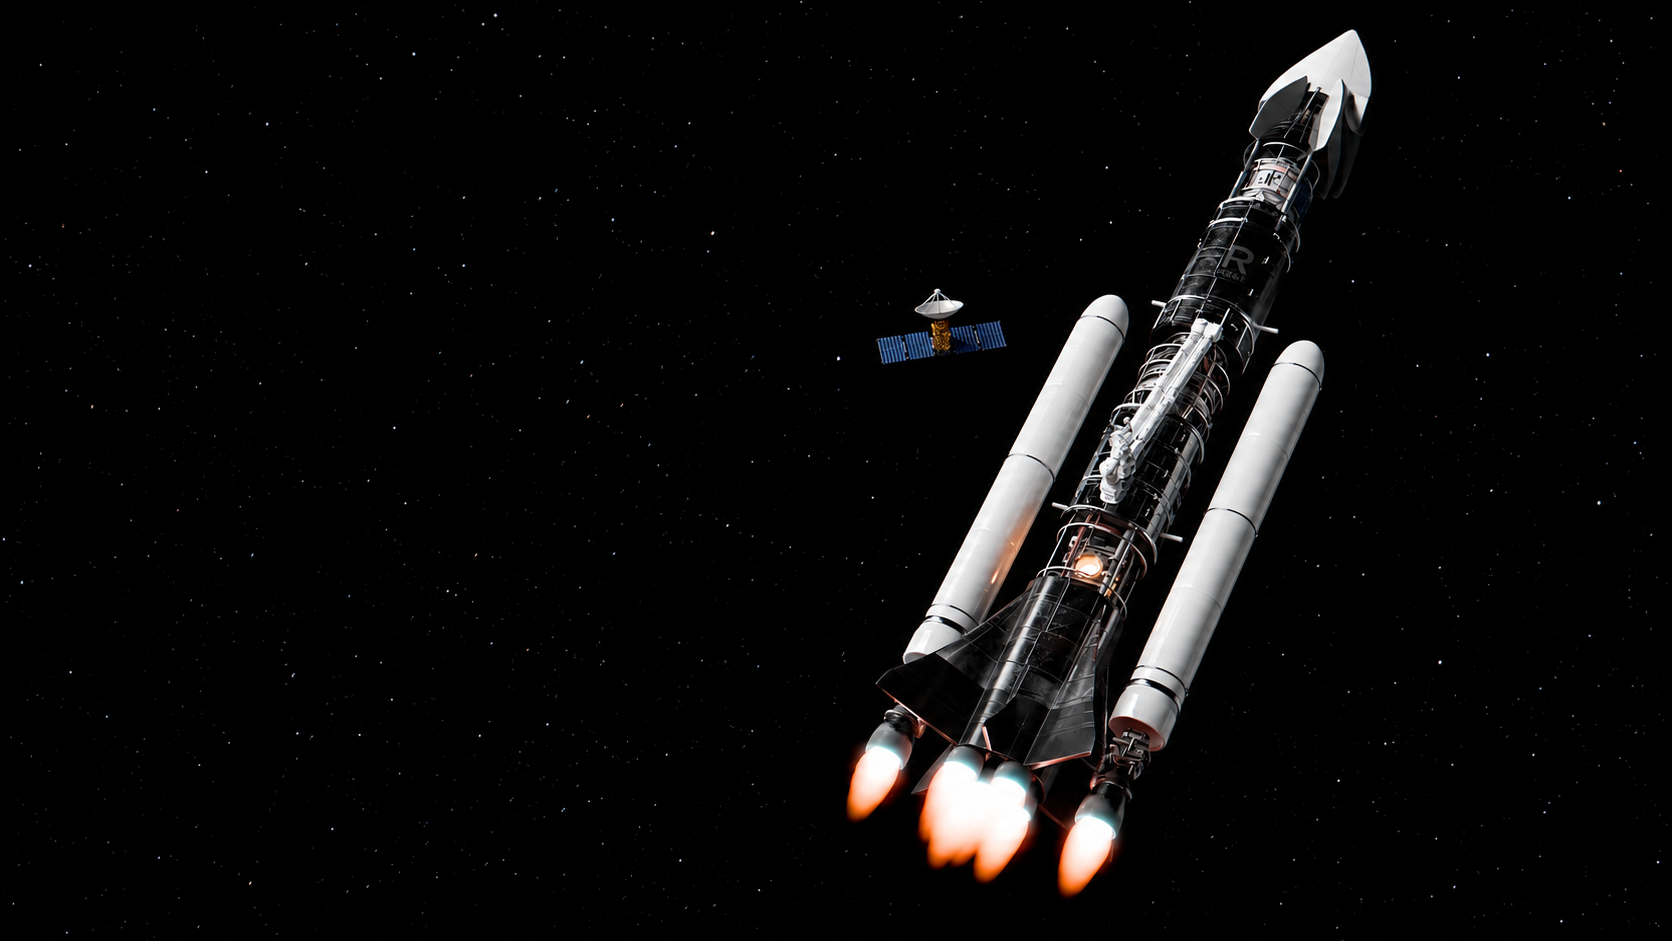
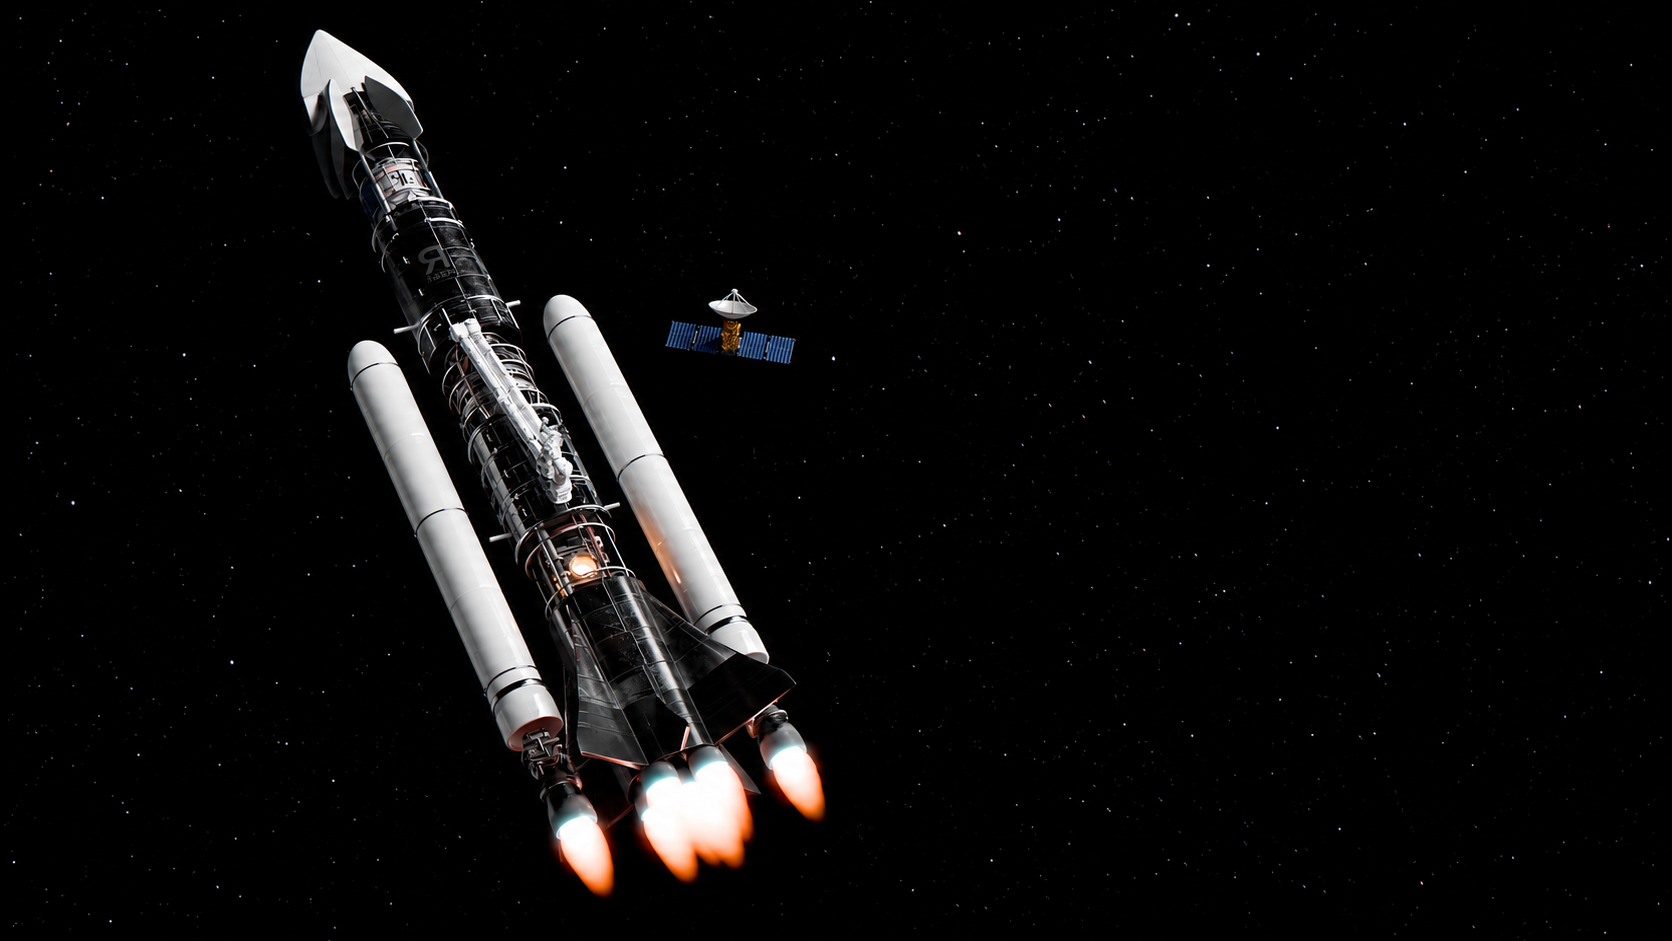
added full ARTWORKS

Changed region(s): [[0.1555, 0.0308, 0.8397, 0.9554]]

diff --git a/js/works-data.js b/js/works-data.js
@@ -50,72 +50,107 @@ const WORKS1 = [
         tag3_nl:  'Stage',
         tag3_en:  'Internship',
     },
-    // ✅ 4-րդ item
     {
         image:        './img/artworks/artwork-4-desktop.jpg',
         image_mobile: './img/artworks/artwork-4-mobile.png',
         video:        './img/artworks/artwork-4-video.mp4',
         date:     "oct '24",
         index:    'INDEX.04',
-        cat_key:  'cat-circus',
-        title_nl: 'Artwork 4',
-        title_en: 'Artwork 4',
-        desc_nl:  'Beschrijving van het vierde artwork.',
-        desc_en:  'Description of the fourth artwork.',
-        tag1_nl:  'Animatie',
-        tag1_en:  'Animation',
-        tag2:     '3D Animation',
+        cat_key:  'cat-amogus',
+        title_nl: 'The Last Imposter',
+        title_en: 'The Last Imposter',
+        desc_nl:  'Een 3D-render die het beroemde schilderij "Het Laatste Avondmaal" van Leonardo da Vinci combineert met het spel Among Us van Innersloth.',
+        desc_en:  'The Last Imposter - A 3D render combining the famous painting "The Last Supper" from Leonardo da Vinci with the game Among Us from Innersloth.',
+        tag1_nl:  '3D Render',
+        tag1_en:  '3D Render',
+        tag2:     'Blender',
         tag3_nl:  'Kunst',
         tag3_en:  'Art',
     },
 ];
 
-
 const WORKS2 = [
     {
-        image:    './img/featured-works/work-3.webp',
+        image:        './img/artworks/artwork-5-desktop.jpg',
+        image_mobile: './img/artworks/artwork-5-mobile.png',
+        video:        './img/artworks/artwork-5-video.mp4',
         date:     "oct '24",
         index:    'INDEX.01',
-        cat_key:  'cat-recovery',
-        title_nl: 'Bosscène',
-        title_en: 'Forest Scene',
-        desc_nl:  'Een persoonlijk omgevingsstuk dat dichte jungleatmosferen en volumetrische belichting verkent.',
-        desc_en:  'A personal environment piece exploring dense jungle atmospheres and volumetric lighting.',
-        tag1_nl:  'Omgeving',
-        tag1_en:  'Environment',
-        tag2:     '3D Render',
-        tag3_nl:  'Sfeervol',
-        tag3_en:  'Atmospheric',
+        cat_key:  'cat-car',
+        title_nl: 'Offroad Voertuig',
+        title_en: 'Offroad Vehicle',
+        desc_nl:  'Een 3D-render van een versleten auto, gemaakt in Blender met behulp van Photoshop voor de materialen.',
+        desc_en:  'Offroad Vehicle Model - A 3D render of a worn down car, made in Blender with the help of Photoshop for the materials.',
+        tag1_nl:  '3D Render',
+        tag1_en:  '3D Render',
+        tag2:     'Blender',
+        tag3_nl:  'Voertuig',
+        tag3_en:  'Vehicle',
     },
     {
-        image:    './img/featured-works/work-2.webp',
+        image:        './img/artworks/artwork-6-desktop.png',
+        image_mobile: './img/artworks/artwork-6-mobile.png',
+        video:        './img/artworks/artwork-6-video.mp4',
         date:     "oct '24",
         index:    'INDEX.02',
-        cat_key:  'cat-mystic',
-        title_nl: 'Mystieke Tuin',
-        title_en: 'Mystic Garden',
-        desc_nl:  'Een persoonlijk omgevingsstuk dat dichte jungleatmosferen en volumetrische belichting verkent.',
-        desc_en:  'A personal environment piece exploring dense jungle atmospheres and volumetric lighting.',
-        tag1_nl:  'Natuur',
-        tag1_en:  'Nature',
-        tag2:     '3D Render',
-        tag3_nl:  'Cinematisch',
-        tag3_en:  'Cinematic',
+        cat_key:  'cat-moccamaster',
+        title_nl: 'Moccamaster',
+        title_en: 'Moccamaster',
+        desc_nl:  'Een 3D-render van de beroemde Moccamaster koffiemachine. Gemodelleerd en gerenderd in Blender, met Photoshop voor de materialen.',
+        desc_en:  'Moccamaster Render - A 3D render of the famous Moccamaster coffee machine. Modeled and rendered in Blender, using Photoshop for the materials.',
+        tag1_nl:  '3D Render',
+        tag1_en:  '3D Render',
+        tag2:     'Blender',
+        tag3_nl:  'Product',
+        tag3_en:  'Product',
     },
     {
-        image:    './img/featured-works/work-4.webp',
+        image:        './img/artworks/artwork-7-desktop.png',
+        image_mobile: './img/artworks/artwork-7-mobile.png',
         date:     "oct '24",
         index:    'INDEX.03',
-        cat_key:  'cat-ancient',
-        title_nl: 'Oud Pad',
-        title_en: 'Ancient Path',
-        desc_nl:  'Een persoonlijk omgevingsstuk dat dichte jungleatmosferen en volumetrische belichting verkent.',
-        desc_en:  'A personal environment piece exploring dense jungle atmospheres and volumetric lighting.',
-        tag1_nl:  'Architectuur',
-        tag1_en:  'Architecture',
-        tag2:     '3D Render',
-        tag3_nl:  'Sfeervol',
-        tag3_en:  'Moody',
+        cat_key:  'cat-robot',
+        title_nl: 'Rode Robot Esdoorn',
+        title_en: 'Red Robot Maple',
+        desc_nl:  'Een set 3D-renders van een robot, gemodelleerd in Blender en getextureerd met Substance Painter.',
+        desc_en:  'Red Robot Maple - A set of 3D renders of a robot, modeled in Blender and textured with Substance Painter.',
+        tag1_nl:  '3D Render',
+        tag1_en:  '3D Render',
+        tag2:     'Blender',
+        tag3_nl:  'Robot',
+        tag3_en:  'Robot',
+    },
+    {
+        image:        './img/artworks/artwork-8-desktop.png',
+        image_mobile: './img/artworks/artwork-8-mobile.png',
+        date:     "oct '24",
+        index:    'INDEX.04',
+        cat_key:  'cat-treehouse',
+        title_nl: 'Bergkoning Hangout',
+        title_en: 'Mountain King Hangout',
+        desc_nl:  'Een gesculpteerd 3D-werk van een hangout voor de jonge Bergkoning. Geïnspireerd op het beroemde muziekstuk "In the Hall of the Mountain King" van Peer Gynt.',
+        desc_en:  "The Mountain King's Childhood Hangout - A Sculpted 3D work of a hangout spot for the young mountain King. Inspired from the famous musical piece \"In the hall of the Mountain King\" by Peer Gynt.",
+        tag1_nl:  '3D Sculptuur',
+        tag1_en:  '3D Sculpt',
+        tag2:     'Blender',
+        tag3_nl:  'Omgeving',
+        tag3_en:  'Environment',
+    },
+    {
+        image:        './img/artworks/artwork-9-desktop.png',
+        image_mobile: './img/artworks/artwork-9-mobile.png',
+        date:     "oct '24",
+        index:    'INDEX.05',
+        cat_key:  'cat-abstract',
+        title_nl: 'Roze Radiaal',
+        title_en: 'Pink Radial',
+        desc_nl:  'Een abstracte 3D-render met een ingewikkelde vorm.',
+        desc_en:  'Pink Radial - An abstract 3D render showing an intricate shape.',
+        tag1_nl:  'Abstract',
+        tag1_en:  'Abstract',
+        tag2:     'Blender',
+        tag3_nl:  '3D Render',
+        tag3_en:  '3D Render',
     },
 ];
 
@@ -133,8 +168,8 @@ function buildTrackHTML(worksArray, lang, translations) {
         const hasVideo = !!w.video;
         const poster   = (isMobile && w.image_mobile) ? w.image_mobile : w.image;
 
-        // video ունեցող items-ը background-image չունեն - video-ն ցուցադրվում է
-        const bgStyle = hasVideo ? '' : `style="background-image: url(${w.image});"`;
+        // ✅ ՄԻՇՏ background-image - poster երևա մինչ video բեռնվի
+        const bgStyle = `style="background-image: url(${poster});"`;
 
         const videoHTML = hasVideo ? `
             <video
@@ -156,7 +191,6 @@ function buildTrackHTML(worksArray, lang, translations) {
                 </div>
             </div>` : '';
 
-        // top-info-ն թաքցնում ենք video ունեցող items-ի համար
         const topInfoHTML = hasVideo ? '' : `
             <div class="work-item-top-info">
                 <h3 class="work-item-top-info-category">${w.index} <span>${catText}</span></h3>

diff --git a/css/works.css b/css/works.css
@@ -457,3 +457,11 @@ video.work-item-video {
 .featured-work-item.has-video .work-item-progress-wrap {
     z-index: 5;
 }
+.featured-work-item.has-video.video-playing {
+    background-image: none !important;
+}
+.featured-work-item {
+    background-size: cover;
+    background-position: center;
+    background-repeat: no-repeat;
+}